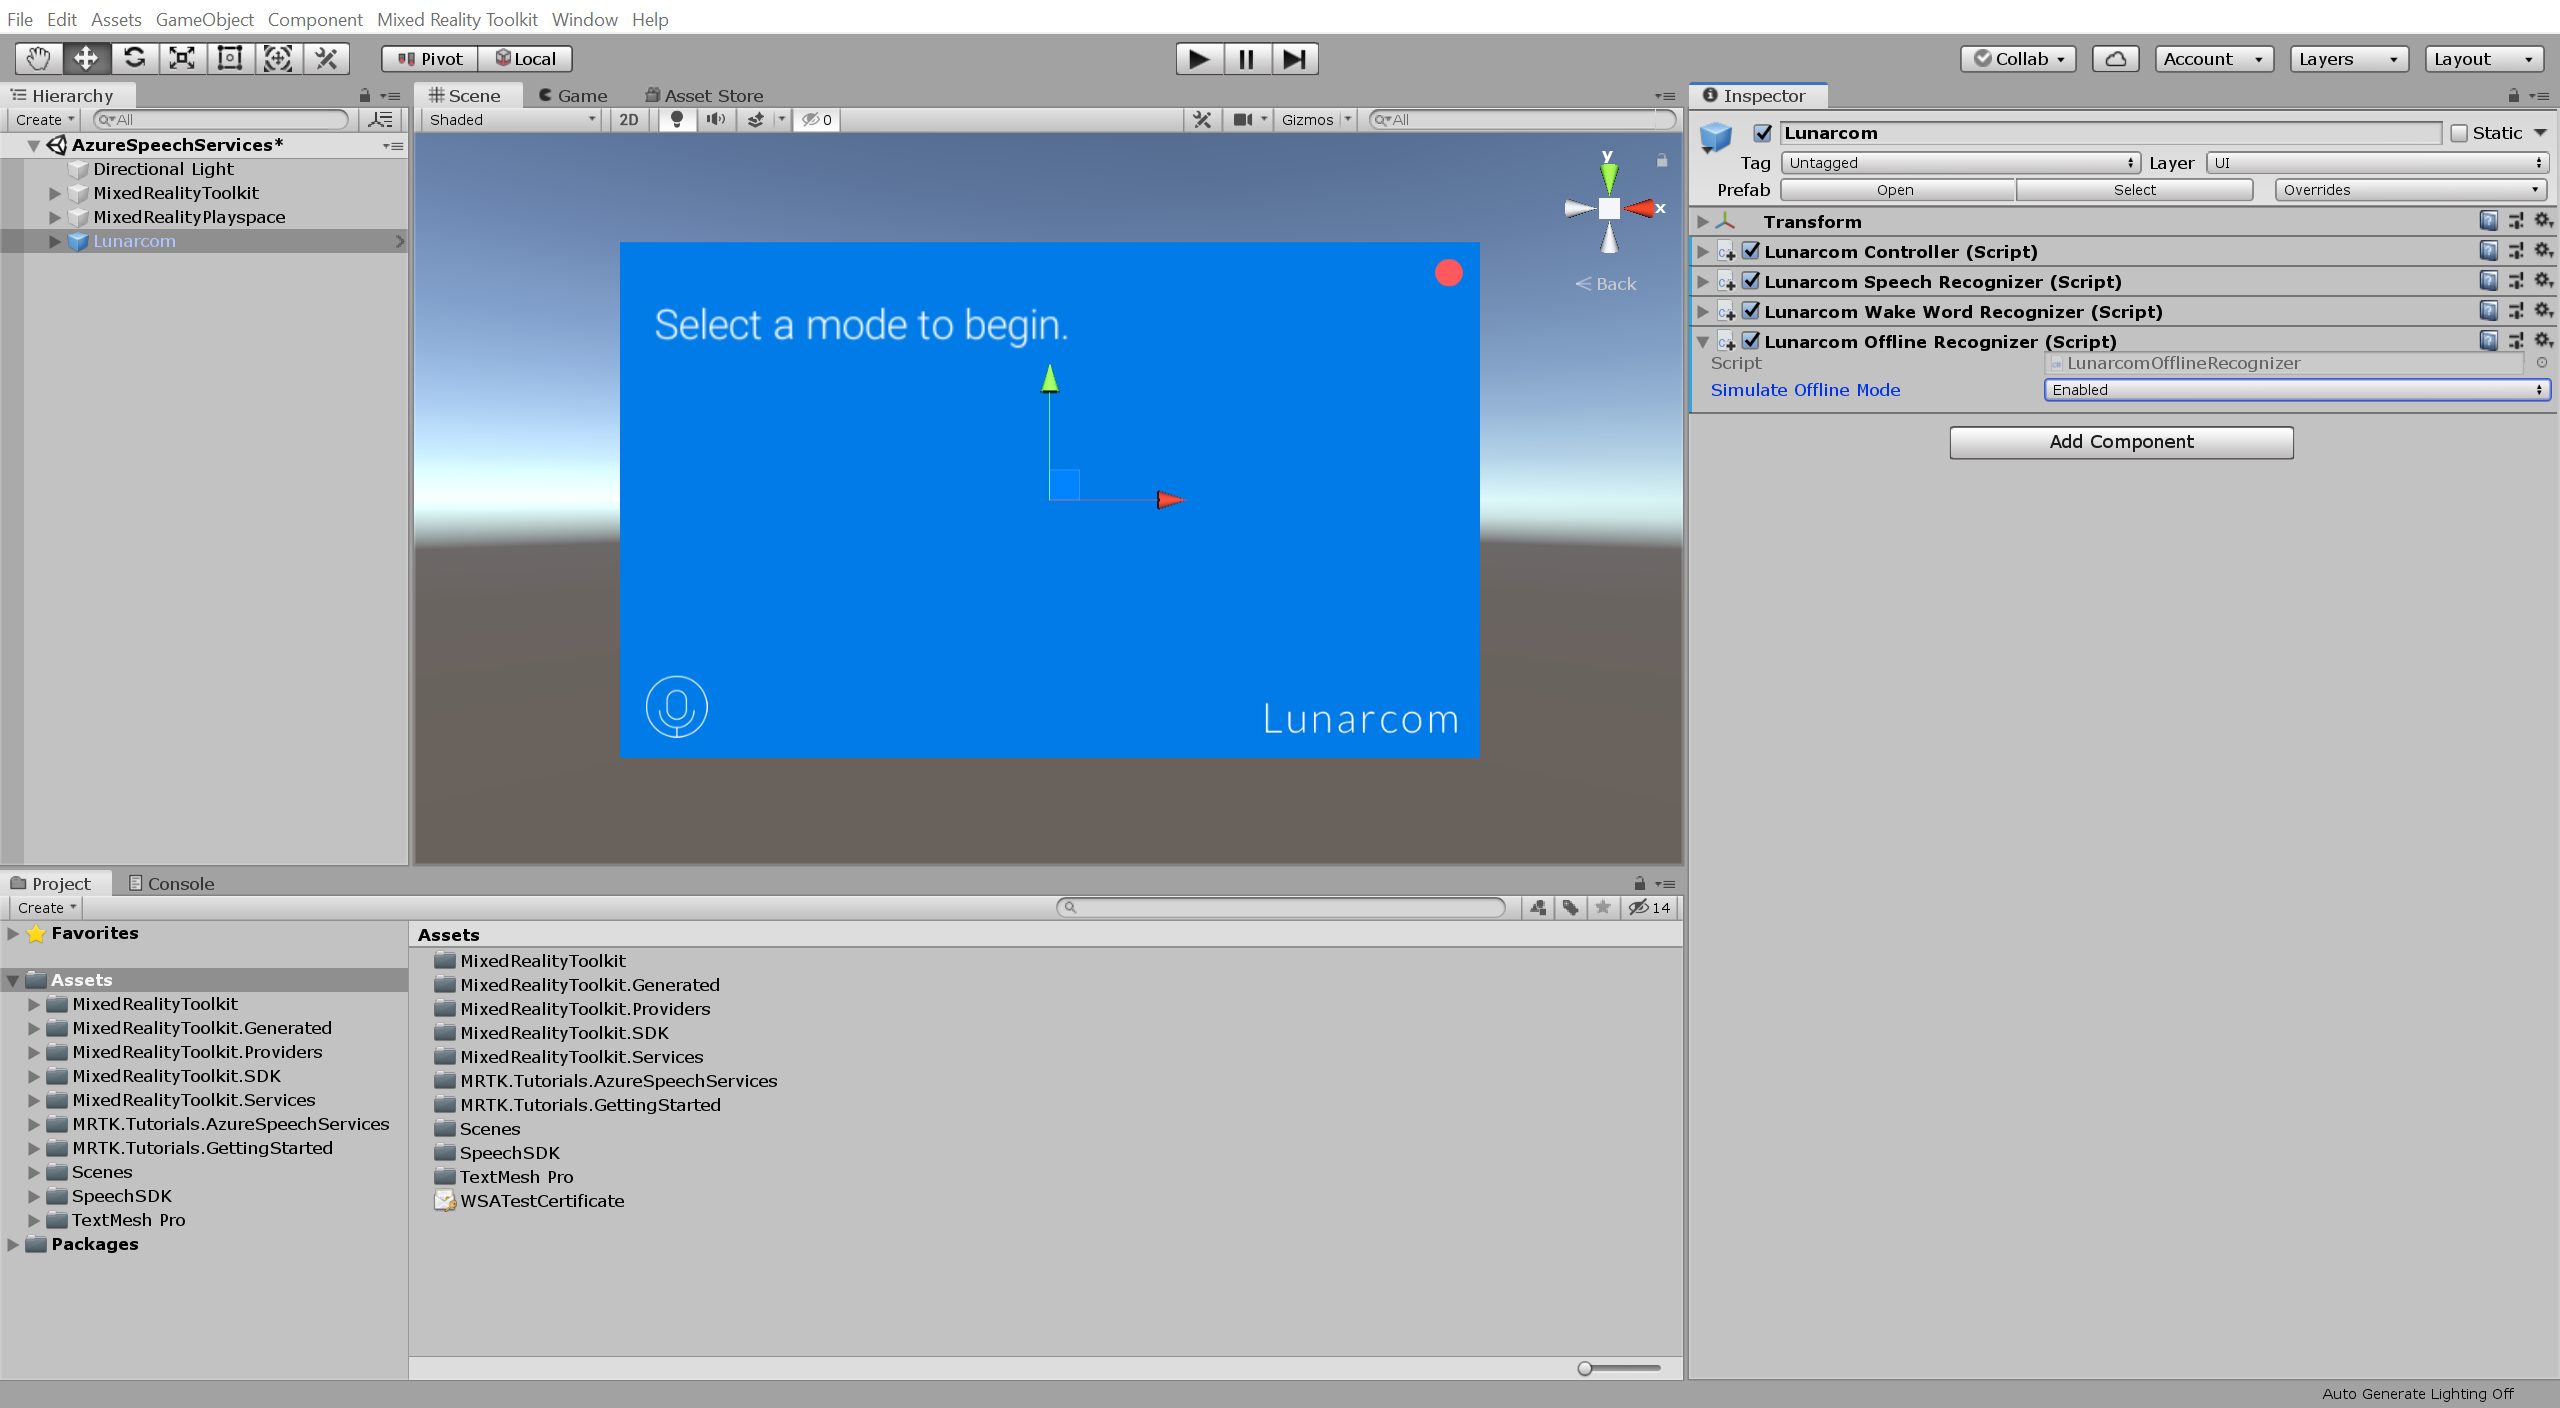
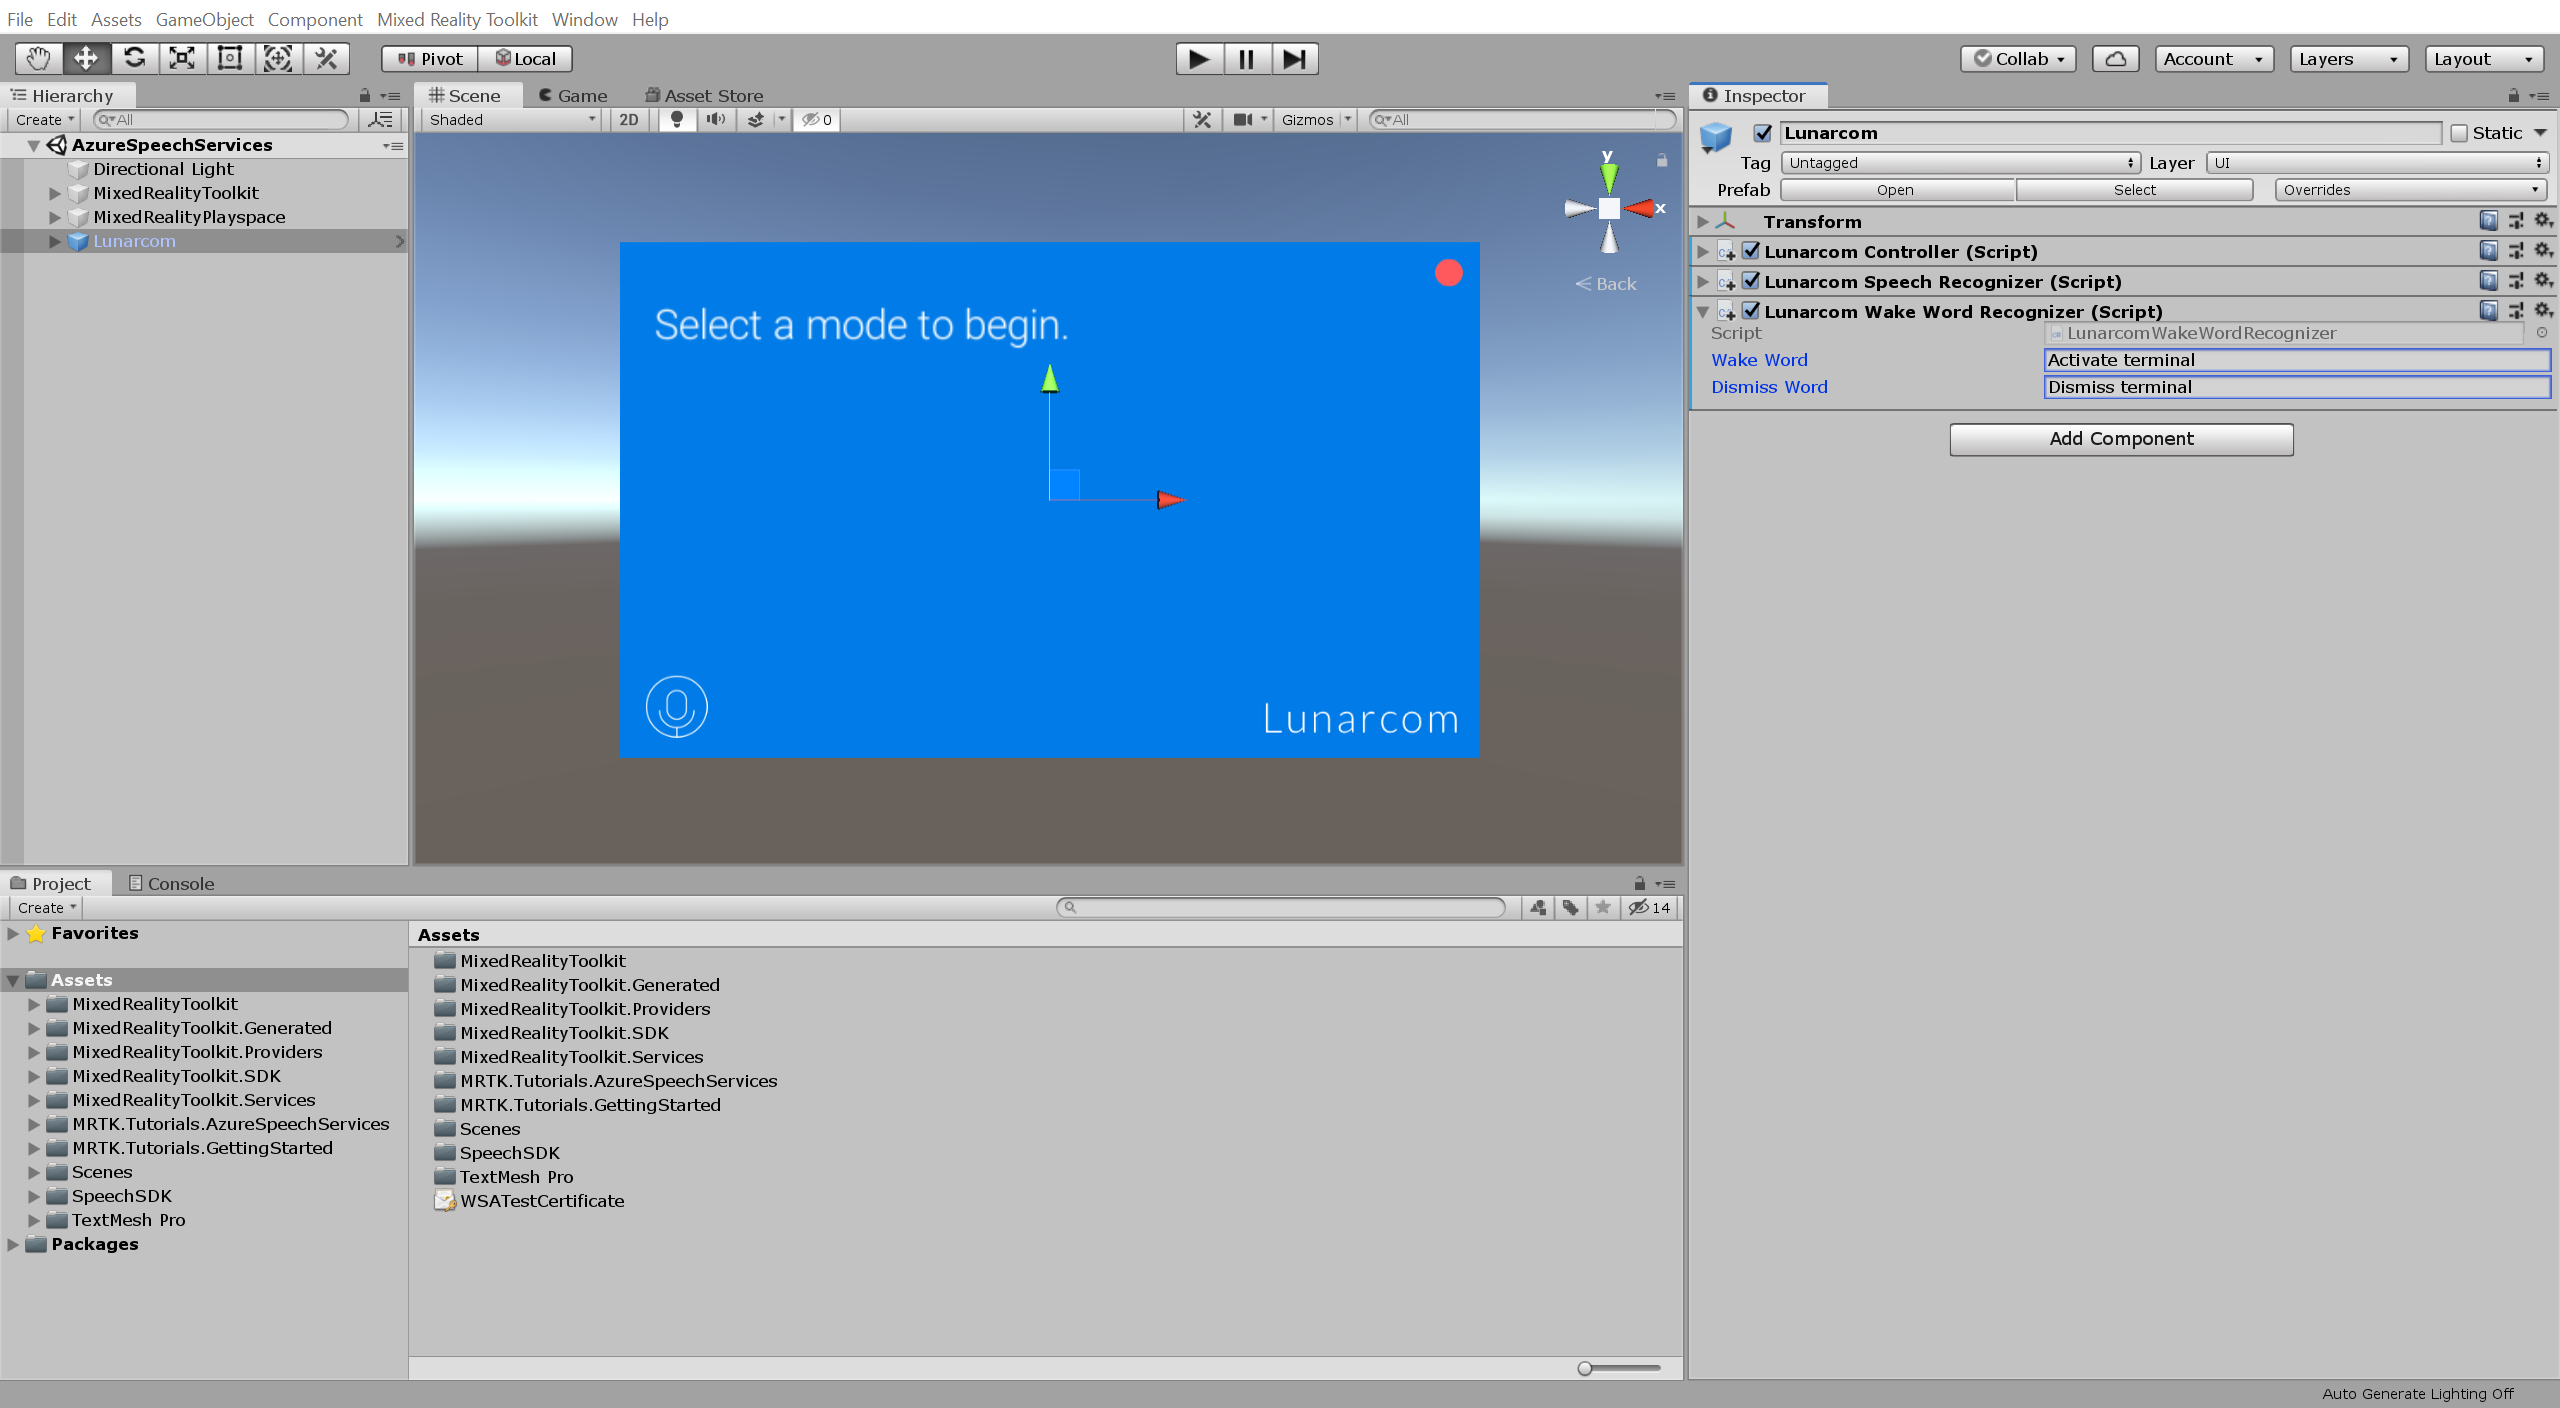
Speech2: Content change (affects Speech1)
Replaced ch2 'Adding an offline mode for local speech-to-text translation' with 'Using speech recognition to execute commands' which was some of the steps in the old ch1.

Current ch2 tutorial 'Adding an offline mode for local speech-to-text translation' was therefore completely removed. This because the feature was never implemented and the functionality provided with LunarcomOfflineRecognizer.cs was fake. Although this tutorial states 'translation' it's assumed this was a typo and that it should have been 'transcription', regardless, Azure speech cannot be used without internet connection and transcription is not available in MRTK by default. Consequently, it's assumed that the original intent was to implement MRTK speech commands as fallback when device is offline, however, speech commands were already covered in Getting Started tutorials series and we now provide a 'tip' section with link to these instructions.

Changed region(s): [[0.6562, 0.2188, 1.0, 0.3438]]

diff --git a/mixed-reality-docs/mrlearning-speechSDK-ch2.md b/mixed-reality-docs/mrlearning-speechSDK-ch2.md
@@ -8,35 +8,44 @@ ms.topic: article
 keywords: mixed reality, unity, tutorial, hololens
 ---
 
-# 2. Adding an offline mode for local speech-to-text translation
-<!-- TODO: Consider renaming to 'Adding an offline mode for local speech-to-text transcription' -->
+# 2. Using speech recognition to execute commands
 
-In this tutorial, you will add an offline mode that lets you perform local speech-to-text transcription when you are unable to connect to the Azure service. You will also simulate a disconnected state
+In this tutorial, you will add the ability to execute commands using Azure speech recognition which will allow you to make something happen based on the word or phrase you define.
 
 ## Objectives
 
-* Learn how to integrate an offline mode for local speech-to-text transcription
+* Learn how Azure speech recognition can be used to execute commands
 
 ## Instructions
 
-In the Hierarchy window, select the **Lunarcom** object, then in the Inspector window, use the **Add Component** button to add the **Lunarcom Offline Recognizer (Script)** component to the Lunarcom object and configure it as follows:
+In the Hierarchy window, select the **Lunarcom** object, then in the Inspector window, use the **Add Component** button to add the **Lunarcom Wake Word Recognizer (Script)** component to the Lunarcom object and configure it as follows:
 
-* Change the **Simulate Offline Mode** to **Enabled** to enable offline mode
+* In the **Wake Word** field, enter a suitable phrase, for example, _Activate terminal_.
+* In the **Dismiss Word** field, enter a suitable phrase, for example, _Dismiss terminal_.
 
 ![mrlearning-speech](images/mrlearning-speech/tutorial2-section1-step1-1.png)
 
 > [!NOTE]
-> The Lunarcom Offline Recognizer (Script) component is not part of MRTK. It was provided with this tutorial's assets.
+> The Lunarcom Wake Word Recognizer (Script) component is not part of MRTK. It was provided with this tutorial's assets.
 
-If you now enter Game mode, you can test the speech recognition in offline mode by first pressing the microphone button. Then, assuming your computer has a microphone, when you say something, your speech will be transcribed on the terminal panel:
+If you now enter Game mode, as in the previous tutorial, the terminal panel is enabled by default, but you can now disable it by saying the Dismiss Word, **Dismiss terminal**:
 
 ![mrlearning-speech](images/mrlearning-speech/tutorial2-section1-step1-2.png)
 
-> [!NOTE]
-> Because offline mode is enabled, the wake word functionality has been automatically disabled and the terminal panel is enabled by default.
+And enable it again by saying the Wake Word, **Activate terminal**:
+
+![mrlearning-speech](images/mrlearning-speech/tutorial2-section1-step1-3.png)
+
+> [!CAUTION]
+> The application needs to connect to Azure, so make sure your computer/device is connected to the internet.
+
+> [!TIP]
+> If you anticipate frequently not being able to connect to Azure, you can also implement speech commands using MRTK by following the [Enabling Voice Commands](mrlearning-base-ch5.md#enabling-voice-commands) instructions.
 
 ## Congratulations
 
-The offline mode has been enabled. Now, when your device is offline, you can still work on your project with the speech SDK.
+You have implemented speech commands powered by Azure. Run the application on your device to ensure the feature is working properly.
+
+In the next tutorial, you will learn how to translate speech using Azure speech translation.
 
 [Next Tutorial: 3. Adding the Azure Cognitive Services speech translation component](mrlearning-speechSDK-ch3.md)

diff --git a/mixed-reality-docs/mrlearning-speechSDK-ch1.md b/mixed-reality-docs/mrlearning-speechSDK-ch1.md
@@ -18,7 +18,6 @@ In this tutorial series, you will create a Mixed Reality application that explor
 
 * Learn how to integrate Azure Speech Services with a HoloLens 2 application
 * Learn how to use speech recognition to transcribe text
-* Learn how to use speech recognition to execute commands
 
 ## Prerequisites
 
@@ -149,32 +148,12 @@ Then, assuming your computer has a microphone, when you say something, your spee
 ![mrlearning-speech](images/mrlearning-speech/tutorial1-section7-step1-3.png)
 
 > [!CAUTION]
-> The application needs to connect to Azure, so make sure your computer is connected to the internet.
-
-## Using speech recognition to execute commands
-
-In the Hierarchy window, select the **Lunarcom** object, then in the Inspector window, use the **Add Component** button to add the **Lunarcom Wake Word Recognizer (Script)** component to the Lunarcom object and configure it as follows:
-
-* In the **Wake Word** field, enter a suitable phrase, for example, _Activate terminal_.
-* In the **Dismiss Word** field, enter a suitable phrase, for example, _Dismiss terminal_.
-
-![mrlearning-speech](images/mrlearning-speech/tutorial1-section8-step1-1.png)
-
-> [!NOTE]
-> The Lunarcom Wake Word Recognizer (Script) component is not part of MRTK. It was provided with this tutorial's assets.
-
-If you now enter Game mode, you will notice that the terminal panel is hidden by default:
-
-![mrlearning-speech](images/mrlearning-speech/tutorial1-section8-step1-2.png)
-
-But that you can turn it on by saying they Wake Word, **Activate terminal**, and hide it again by saying the Dismiss Word, **Dismiss terminal**:
-
-![mrlearning-speech](images/mrlearning-speech/tutorial1-section8-step1-3.png)
+> The application needs to connect to Azure, so make sure your computer/device is connected to the internet.
 
 ## Congratulations
 
-You have implemented voice recognition powered by Azure. Run the application on your device to ensure all functions and features are working properly. Start by saying the wake word, Activate Terminal. Then press the microphone button to start voice recognition. Begin speaking and you will see your words transcribed on the terminal panel as you speak. Press the microphone button a second time to stop voice recognition. Say the dismiss word, Dismiss Terminal, to hide the terminal.
+You have implemented speech recognition powered by Azure. Run the application on your device to ensure the feature is working properly.
 
-In the next tutorial, you will learn how to dynamically switch to using device-powered voice recognition for situations where Azure's speech service isn't available due to the HoloLens being offline.
+In the next tutorial, you will learn how to execute commands using Azure speech recognition.
 
-[Next tutorial: 2. Adding an offline mode for local speech-to-text translation](mrlearning-speechSDK-ch2.md)
+[Next tutorial: 2. Using speech recognition to execute commands](mrlearning-speechSDK-ch2.md)
